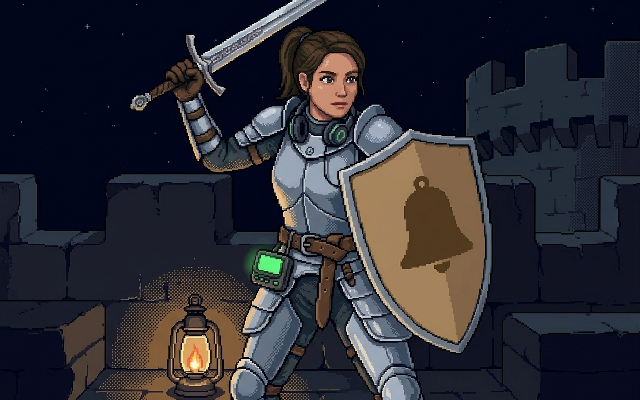
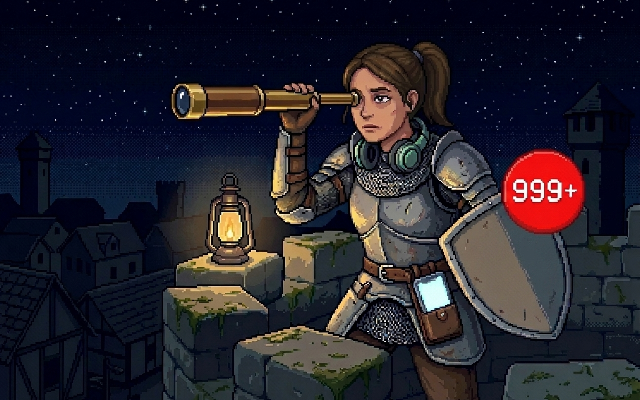
art: P4 card redone as Knight Watch (2026-11-13)
Claude-Session: https://claude.ai/code/session_014bw7Voj6ZyqA75pqeRWNHh

diff --git a/art-drops/2026-11-12-room-ch4/HANDBACK.md b/art-drops/2026-11-12-room-ch4/HANDBACK.md
@@ -54,6 +54,15 @@ Cloud Claude rewrote chapter 4 around this drop; these changes fit the art to it
 - **`R4_pc_closeup` redone:** the old screen was see-through (the wall of space showed through its top half). The screen is now solid, even and blank, at x 33–285, y 34–147. This is where Claw Codez's chat goes.
 - **The wall display needed no change:** the star map (fleet dots), the lane under it (the smug flat green health line) and the chat column (lag in nine languages, then o7) all match `ch4.wall.*`.
 
+## P4 card redone: Knight Watch (Rick, 2026-11-13)
+
+`P4_card.png` is replaced. Rick's direction:
+- **Class: "Knight Watch"** (was Knight of the Pager). She's on sentry duty at the top of the walls, at night, scanning with a brass spyglass.
+- **No pager.** The pager belongs to the Honeycomb Hero. She carries a **smartphone** in a holster on her belt, with its screen blank and glowing. **Card animation: a scroll of urgent notifications on that screen.** The screen is about **x 213–228, y 149–169** (320×200); the code draws the scrolling alerts there.
+- **Shield:** a plain steel shield wearing a big red app-icon notification badge, **999+**, on its top right corner (about x 253–290, y 77–113). The badge is the only text in the picture, at Rick's request. At 128×80 the number doesn't read; if the small card should show it, draw it over the badge in code.
+- **For the script:** rename `ch4.persona.class` and the card title line to Knight Watch, and replace "Pager Endurance" in `ch4.card.stats` / `ch4.persona.stats` (for example "Notification Endurance"). `ch4.persona.flavor` ("Sworn to answer the call") still fits.
+- Provenance: a new card (3 tries, brief 02's frame lines plus Rick's watch direction, `R4_ops_room` as the reference); t1 kept, then two edits of it for the badge and a plain shield (`gen_set.py`: `P4_watch`, `P4_badge`, `P4_plain`). t2 of the first round was rejected for drawing a third arm.
+
 ## Flaws kept
 
 See "Changes from the brief". Nothing else known.
